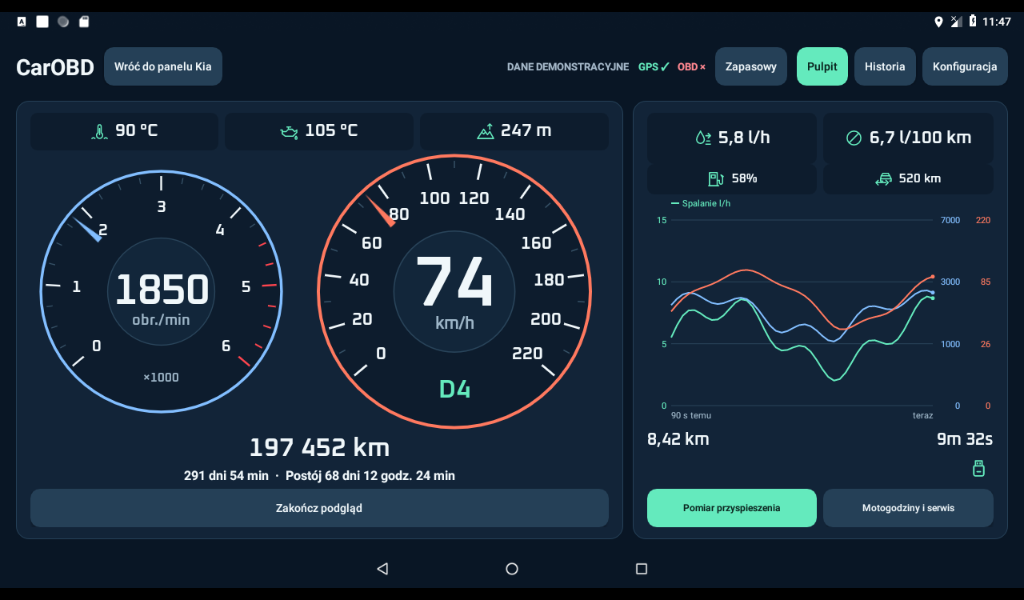
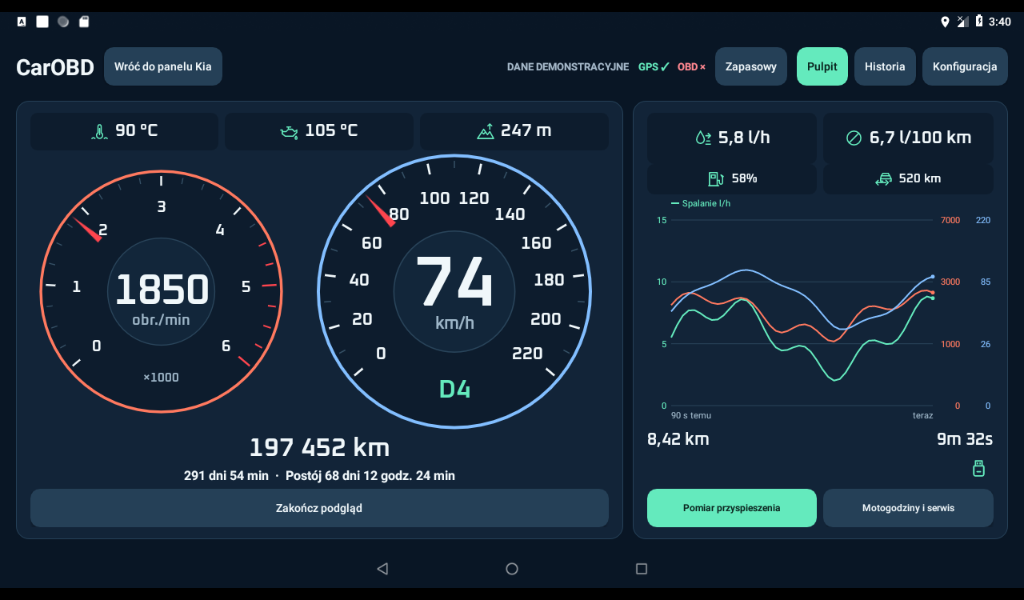
Swap chart and dial colors, use red needles and shorten white ticks

diff --git a/android-radio/src/pl/marm/carobd/Instruments.java b/android-radio/src/pl/marm/carobd/Instruments.java
@@ -7,7 +7,7 @@ import java.util.Arrays;
 
 final class Instruments {
     static final int WHITE=0xfff0f7fa, MUTE=0xff9db5c7, TRACK=0xff355065, GRID=0xff29445a,
-        MINT=0xff64eabd, BLUE=0xff82beff, ORANGE=0xffff795f, SPEED_LIMIT=220, RPM_LIMIT=7000;
+        MINT=0xff64eabd, RPM_COLOR=0xffff795f, SPEED_COLOR=0xff82beff, SPEED_LIMIT=220, RPM_LIMIT=7000;
     static final class Dial extends View {
         private static final float START=140, SWEEP=260;
         private static final int FACE=0xff0d1c2d, CENTER=0xff12263a, RED_ZONE=0xffff454e;
@@ -71,7 +71,7 @@ final class Instruments {
                 boolean red=kiaScale && tick>=KIA_RED_FROM;
                 ink.setColor(red ? RED_ZONE : main ? WHITE : TRACK);
                 ink.setStrokeWidth(r*(main ? .016f : red ? .013f : .009f));
-                float inner=r*(main ? .84f : red ? .895f : .91f);
+                float inner=r*(red ? (main ? .84f : .895f) : (main ? .88f : .91f));
                 c.drawLine(x+inner*cos,y+inner*sin,x+r*.96f*cos,y+r*.96f*sin,ink);
                 if (main) text(c,Integer.toString(tick/divisor),
                     x+r*.704f*cos,y+r*.704f*sin+r*.045f,r*.13f,WHITE);
@@ -84,7 +84,7 @@ final class Instruments {
                 c.translate(x,y); c.rotate(angle);
                 needle.rewind(); needle.moveTo(base,-halfWidth);
                 needle.lineTo(r*.973f,0); needle.lineTo(base,halfWidth); needle.close();
-                ink.setStyle(Paint.Style.FILL); ink.setColor(accent); c.drawPath(needle,ink);
+                ink.setStyle(Paint.Style.FILL); ink.setColor(RED_ZONE); c.drawPath(needle,ink);
                 c.restore();
             }
             float digitsSize=r*(digits.length()>3 ? .35f : .52f);
@@ -100,8 +100,8 @@ final class Instruments {
 
     static final class Fuel extends View {
         private static final int FUEL=0, RPM=1, SPEED=2, SAMPLES=46, PERIOD_MS=2000;
-        private static final int[] COLORS={MINT,BLUE,ORANGE};
-            private static final double[] LIMITS={0,RPM_LIMIT,SPEED_LIMIT}, LOG_UNITS={0,1000,20};
+        private static final int[] COLORS={MINT,RPM_COLOR,SPEED_COLOR};
+        private static final double[] LIMITS={0,RPM_LIMIT,SPEED_LIMIT}, LOG_UNITS={0,1000,20};
         private final Paint ink=new Paint(Paint.ANTI_ALIAS_FLAG);
         private final Path trace=new Path();
         private final double[][] values=new double[COLORS.length][SAMPLES];

diff --git a/android-radio/src/pl/marm/carobd/Dashboard.java b/android-radio/src/pl/marm/carobd/Dashboard.java
@@ -193,8 +193,8 @@ public final class Dashboard extends Activity {
         FrameLayout clockArea=new FrameLayout(this); weight(instruments,clockArea,1);
         LinearLayout clocks=group(false);
         clockArea.addView(clocks,new FrameLayout.LayoutParams(-1,-1));
-        speedDial=new Instruments.Dial(this,instrumentsFont,"Prędkość","km/h",Instruments.SPEED_LIMIT,20,Instruments.ORANGE,.49f);
-        rpmDial=new Instruments.Dial(this,instrumentsFont,"Obroty","obr./min",Instruments.RPM_LIMIT,1000,Instruments.BLUE,.445f);
+        speedDial=new Instruments.Dial(this,instrumentsFont,"Prędkość","km/h",Instruments.SPEED_LIMIT,20,Instruments.SPEED_COLOR,.49f);
+        rpmDial=new Instruments.Dial(this,instrumentsFont,"Obroty","obr./min",Instruments.RPM_LIMIT,1000,Instruments.RPM_COLOR,.445f);
         weight(clocks,rpmDial,.92f);
         gap(clocks,10);
         weight(clocks,speedDial,1.08f);

diff --git a/android-radio/build_config.py b/android-radio/build_config.py
@@ -1,4 +1,4 @@
-VERSION="0.3.35"
+VERSION="0.3.36"
 API=34
 MIN_API=27
 BUILD_TOOLS="35.0.0"
